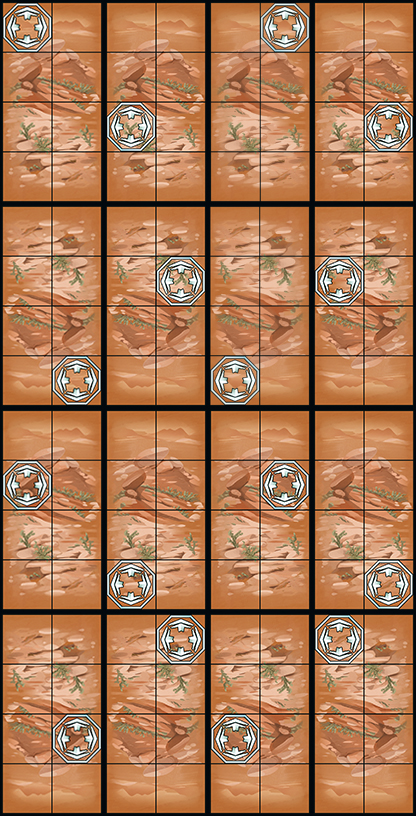
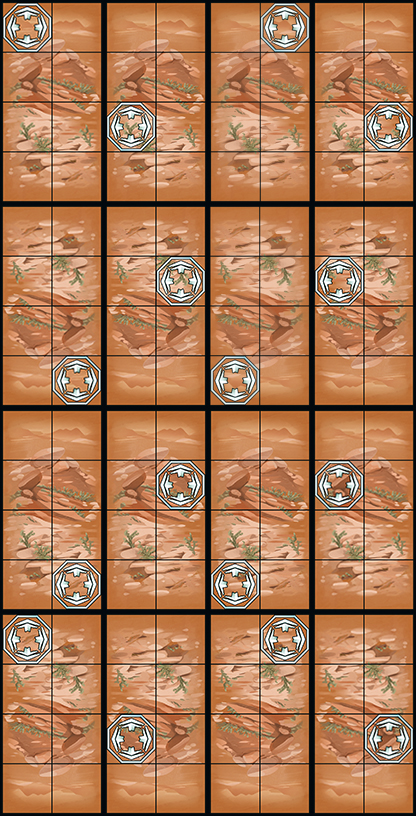
Updated Tiles
4x4 and 2x4 tiles were updated.

diff --git a/crashandgrab.game.php b/crashandgrab.game.php
@@ -4142,17 +4142,17 @@ self::warn("<b>HAND not NULL</b>"); // log to sql database
 								$tileSpaceValues = array(
 									array("B","1","B","S"),
 									array("B","B","3","B"),
-									array("S","B","B","B"),
-									array("2","B","B","B")
+									array("2","B","B","B"),
+									array("S","B","B","B")
 								);
 							}
 							else
 							{ // USE SIDE B
 								$tileSpaceValues = array(
-									array("B","B","2","B"),
-									array("1","S","B","B"),
-									array("B","B","B","S"),
-									array("B","B","B","3")
+									array("S","2","B","B"),
+									array("B","B","1","B"),
+									array("B","B","B","3"),
+									array("B","B","B","S")
 								);
 							}
 						break;
@@ -4160,19 +4160,19 @@ self::warn("<b>HAND not NULL</b>"); // log to sql database
 							if($useSideA == 1)
 							{ // USE SIDE A
 								$tileSpaceValues = array(
-									array("4","B","S","B"),
+									array("B","B","S","B"),
 									array("B","B","B","5"),
-									array("B","S","B","B"),
-									array("B","6","B","B")
+									array("4","S","B","B"),
+									array("B","B","6","B")
 								);
 							}
 							else
 							{ // USE SIDE B
 								$tileSpaceValues = array(
-									array("4","B","B","B"),
-									array("S","B","B","B"),
-									array("B","B","5","B"),
-									array("B","6","B","S")
+									array("B","4","B","B"),
+									array("B","B","S","B"),
+									array("6","B","B","S"),
+									array("B","B","5","B")
 								);
 							}
 						break;
@@ -4180,18 +4180,18 @@ self::warn("<b>HAND not NULL</b>"); // log to sql database
 							if($useSideA == 1)
 							{ // USE SIDE A
 								$tileSpaceValues = array(
-									array("S","B","B","B"),
-									array("B","S","B","7"),
+									array("B","7","B","B"),
 									array("B","B","9","B"),
-									array("8","B","B","B")
+									array("S","B","B","8"),
+									array("B","S","B","B")
 								);
 							}
 							else
 							{ // USE SIDE B
 								$tileSpaceValues = array(
-									array("8","S","B","B"),
-									array("B","B","B","9"),
 									array("B","B","S","B"),
+									array("B","8","B","B"),
+									array("S","B","B","9"),
 									array("B","B","7","B")
 								);
 							}
@@ -4200,19 +4200,19 @@ self::warn("<b>HAND not NULL</b>"); // log to sql database
 							if($useSideA == 1)
 							{ // USE SIDE A
 								$tileSpaceValues = array(
-									array("B","B","10","B"),
-									array("B","B","B","S"),
-									array("S","11","B","B"),
-									array("B","B","B","12")
+									array("B","B","11","B"),
+									array("10","B","B","B"),
+									array("B","B","S","B"),
+									array("B","12","B","S")
 								);
 							}
 							else
 							{ // USE SIDE B
 								$tileSpaceValues = array(
-									array("B","10","B","B"),
-									array("B","B","S","B"),
-									array("B","S","B","12"),
-									array("B","B","11","B")
+									array("B","B","10","B"),
+									array("12","S","B","B"),
+									array("B","B","B","11"),
+									array("B","B","B","S")
 								);
 							}
 						break;
@@ -4298,8 +4298,8 @@ self::warn("<b>HAND not NULL</b>"); // log to sql database
 							else
 							{ // USE SIDE B
 								$tileSpaceValues = array(
-									array("B","B","B","B"),
-									array("B","S","B","B")
+									array("B","B","B","S"),
+									array("B","B","B","B")
 								);
 							}
 						break;
@@ -4314,8 +4314,8 @@ self::warn("<b>HAND not NULL</b>"); // log to sql database
 							else
 							{ // USE SIDE B
 								$tileSpaceValues = array(
-									array("B","B","B","B"),
-									array("B","B","B","S")
+									array("B","S","B","B"),
+									array("B","B","B","B")
 								);
 							}
 						break;
@@ -4330,8 +4330,8 @@ self::warn("<b>HAND not NULL</b>"); // log to sql database
 							else
 							{ // USE SIDE B
 								$tileSpaceValues = array(
-									array("B","S","B","B"),
-									array("B","B","B","B")
+									array("B","B","B","B"),
+									array("B","B","B","S")
 								);
 							}
 						break;
@@ -4346,8 +4346,8 @@ self::warn("<b>HAND not NULL</b>"); // log to sql database
 							else
 							{ // USE SIDE B
 								$tileSpaceValues = array(
-									array("B","B","B","S"),
-									array("B","B","B","B")
+									array("B","B","B","B"),
+									array("B","S","B","B")
 								);
 							}
 						break;
